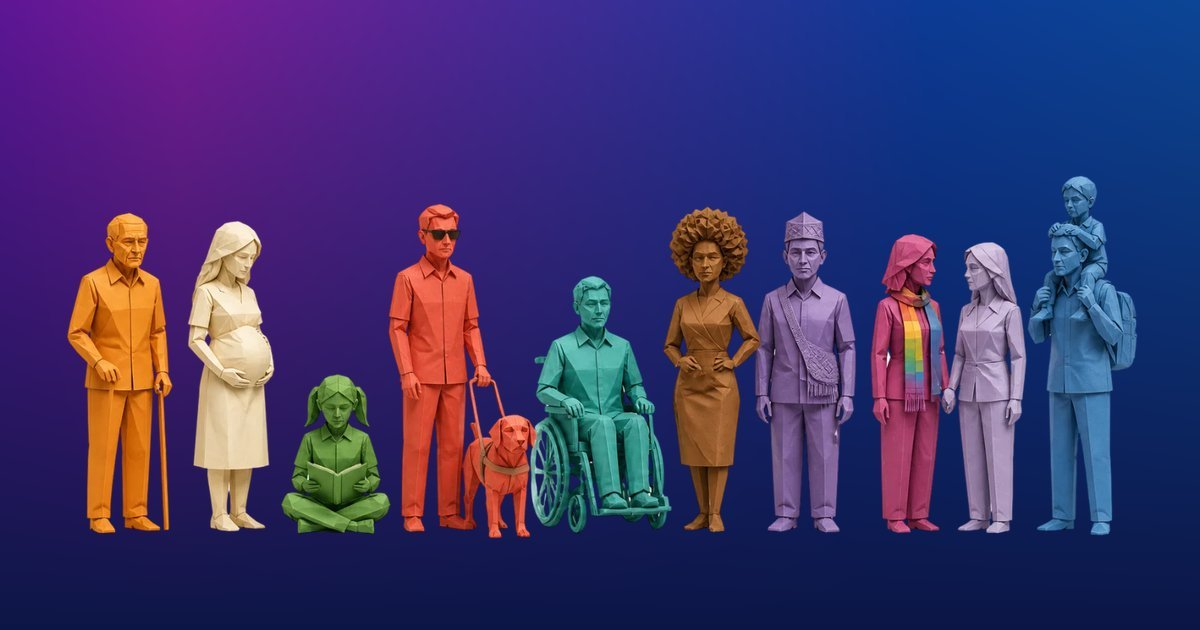
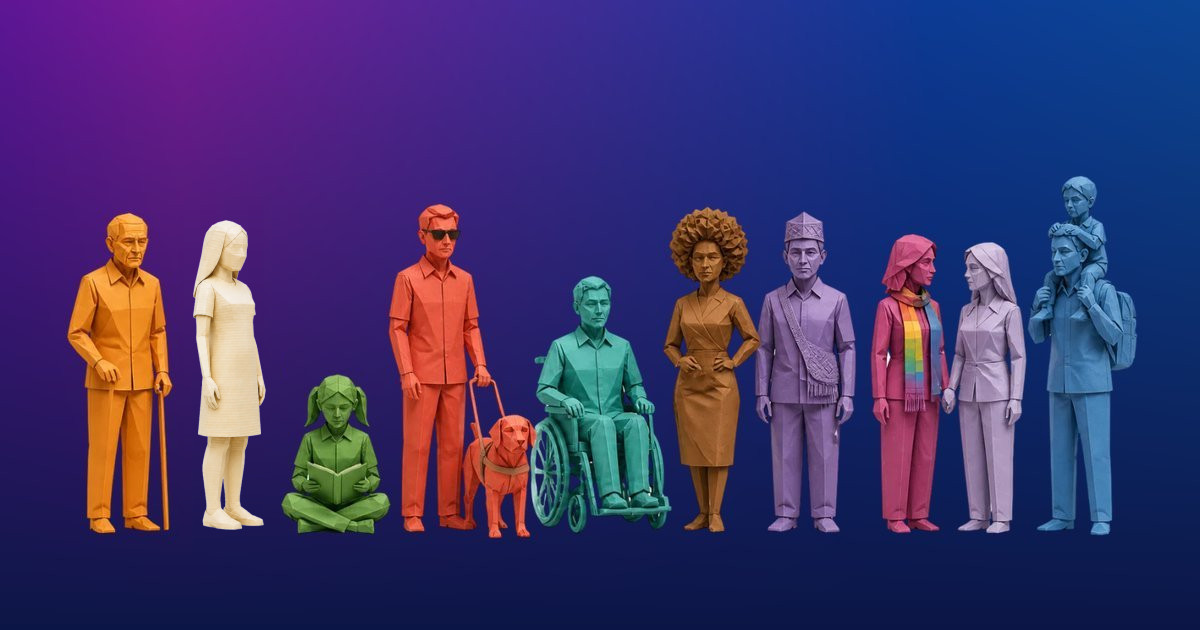
Figura de «Género y cuidado»: mujer no embarazada
Por pedido del comité se reemplaza la figura de la mujer gestante por una
mujer no embarazada con el mismo estilo de papel plegado y color beige
(generada en Canva a partir de la original, fondo retirado y recortada).

- assets/fig/mujer.webp reemplaza a gestante.webp (app.js apunta a «mujer»).
- assets/og.jpg: la figura se reemplaza en la imagen para compartir y la
  etiqueta og:image lleva ?v=2 para que las redes la vuelvan a leer.
- Sube $v a 2026.10.28a por el cambio en app.js.

Changed region(s): [[0.1542, 0.3317, 0.2467, 0.8444]]

diff --git a/app.js b/app.js
@@ -16,7 +16,7 @@ const P=[
   bars:[["1985",6],["2024",15],["2070 (proyección)",36]],barMax:40,unit:" %",
   act:"Rutas de talento intergeneracional: mentoría en dos vías, reentrenamiento y retiro flexible. Y lenguaje: «personas mayores», no «abuelitos».",
   src:"Fundación Saldarriaga Concha con datos DANE (feb 2025); DANE vía RTVC (jul 2025)."},
- {id:"genero",img:"gestante",h:.91,label:"Género y cuidado",c:"#E6DDBF",
+ {id:"genero",img:"mujer",h:.91,label:"Género y cuidado",c:"#E6DDBF",
   big:"11,4 %",st:"fue la tasa de desempleo de las mujeres en 2025. La de los hombres fue 7,0 %.",
   easy:"Más mujeres que hombres buscan trabajo y no lo encuentran.",
   stats:["La participación laboral de las mujeres está 24 puntos por debajo de la de los hombres.","Con título universitario, una mujer gana 82 centavos por cada peso de un hombre.","El 35 % de las mujeres que quieren trabajar y no buscan empleo lo atribuye a responsabilidades familiares."],

diff --git a/index.php b/index.php
@@ -1,4 +1,4 @@
-<?php $v = '2026.10.27b'; ?><!doctype html>
+<?php $v = '2026.10.28a'; ?><!doctype html>
 <html lang="es-CO">
 <head>
 <meta charset="utf-8">
@@ -7,7 +7,7 @@
 <meta name="description" content="Gestión del cambio organizacional para la Inclusión y Equidad. 11 de noviembre de 2026, Universidad El Bosque – HUB iEX, Bogotá. Inscríbete y dobla tu escarapela.">
 <meta property="og:title" content="5° Encuentro Diversidades e Inclusión">
 <meta property="og:description" content="Gestión del cambio organizacional para la Inclusión y Equidad · 11 nov 2026 · Universidad El Bosque, Bogotá">
-<meta property="og:image" content="https://diversidad.startinlab.org/assets/og.jpg">
+<meta property="og:image" content="https://diversidad.startinlab.org/assets/og.jpg?v=2">
 <meta property="og:type" content="website">
 <meta name="theme-color" content="#0C1646">
 <link rel="icon" href="favicon.svg" type="image/svg+xml">
